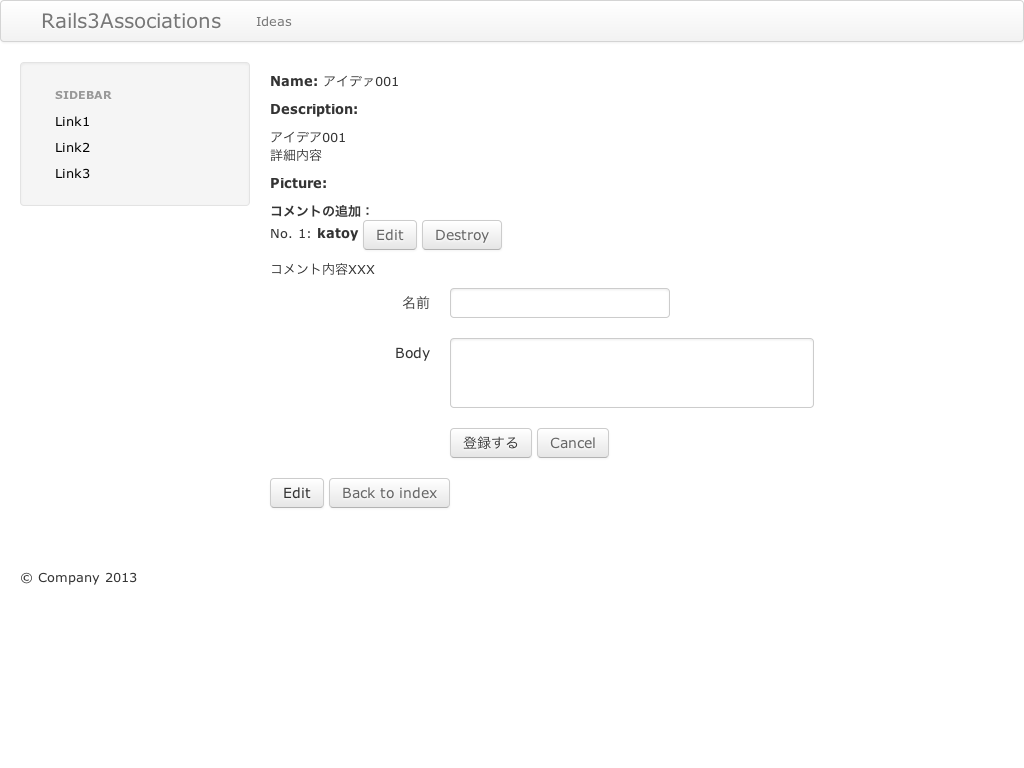
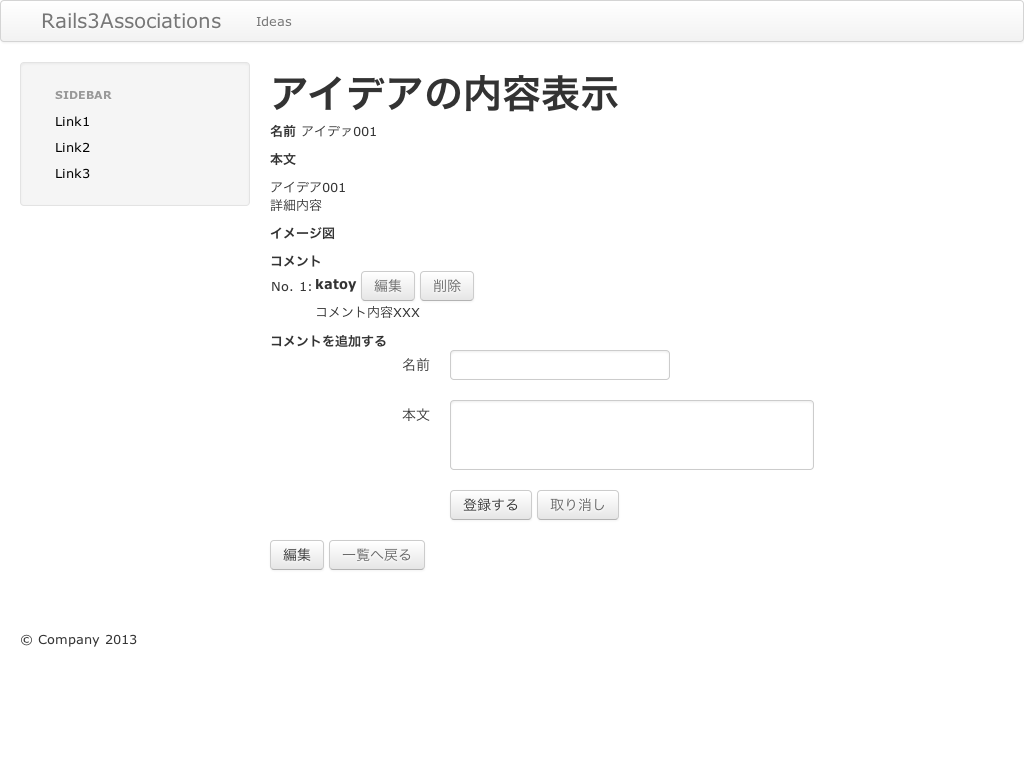
Use bootbox for confirm-dialog.

diff --git a/app/assets/javascripts/bootbox.min.js b/app/assets/javascripts/bootbox.min.js
@@ -1,0 +1,6 @@
+/**
+ * bootbox.js v3.3.0
+ *
+ * http://bootboxjs.com/license.txt
+ */
+var bootbox=window.bootbox||function(a,b){function c(a,b){return"undefined"==typeof b&&(b=d),"string"==typeof m[b][a]?m[b][a]:b!=e?c(a,e):a}var d="en",e="en",f=!0,g="static",h="javascript:;",i="",j={},k={},l={};l.setLocale=function(a){for(var b in m)if(b==a)return d=a,void 0;throw new Error("Invalid locale: "+a)},l.addLocale=function(a,b){"undefined"==typeof m[a]&&(m[a]={});for(var c in b)m[a][c]=b[c]},l.setIcons=function(a){k=a,("object"!=typeof k||null===k)&&(k={})},l.setBtnClasses=function(a){j=a,("object"!=typeof j||null===j)&&(j={})},l.alert=function(){var a="",b=c("OK"),d=null;switch(arguments.length){case 1:a=arguments[0];break;case 2:a=arguments[0],"function"==typeof arguments[1]?d=arguments[1]:b=arguments[1];break;case 3:a=arguments[0],b=arguments[1],d=arguments[2];break;default:throw new Error("Incorrect number of arguments: expected 1-3")}return l.dialog(a,{label:b,icon:k.OK,"class":j.OK,callback:d},{onEscape:d||!0})},l.confirm=function(){var a="",b=c("CANCEL"),d=c("CONFIRM"),e=null;switch(arguments.length){case 1:a=arguments[0];break;case 2:a=arguments[0],"function"==typeof arguments[1]?e=arguments[1]:b=arguments[1];break;case 3:a=arguments[0],b=arguments[1],"function"==typeof arguments[2]?e=arguments[2]:d=arguments[2];break;case 4:a=arguments[0],b=arguments[1],d=arguments[2],e=arguments[3];break;default:throw new Error("Incorrect number of arguments: expected 1-4")}var f=function(){return"function"==typeof e?e(!1):void 0},g=function(){return"function"==typeof e?e(!0):void 0};return l.dialog(a,[{label:b,icon:k.CANCEL,"class":j.CANCEL,callback:f},{label:d,icon:k.CONFIRM,"class":j.CONFIRM,callback:g}],{onEscape:f})},l.prompt=function(){var a="",d=c("CANCEL"),e=c("CONFIRM"),f=null,g="";switch(arguments.length){case 1:a=arguments[0];break;case 2:a=arguments[0],"function"==typeof arguments[1]?f=arguments[1]:d=arguments[1];break;case 3:a=arguments[0],d=arguments[1],"function"==typeof arguments[2]?f=arguments[2]:e=arguments[2];break;case 4:a=arguments[0],d=arguments[1],e=arguments[2],f=arguments[3];break;case 5:a=arguments[0],d=arguments[1],e=arguments[2],f=arguments[3],g=arguments[4];break;default:throw new Error("Incorrect number of arguments: expected 1-5")}var h=a,i=b("<form></form>");i.append("<input class='input-block-level' autocomplete=off type=text value='"+g+"' />");var m=function(){return"function"==typeof f?f(null):void 0},n=function(){return"function"==typeof f?f(i.find("input[type=text]").val()):void 0},o=l.dialog(i,[{label:d,icon:k.CANCEL,"class":j.CANCEL,callback:m},{label:e,icon:k.CONFIRM,"class":j.CONFIRM,callback:n}],{header:h,show:!1,onEscape:m});return o.on("shown",function(){i.find("input[type=text]").focus(),i.on("submit",function(a){a.preventDefault(),o.find(".btn-primary").click()})}),o.modal("show"),o},l.dialog=function(c,d,e){function j(){var a=null;"function"==typeof e.onEscape&&(a=e.onEscape()),a!==!1&&x.modal("hide")}var k="",l=[];e||(e={}),"undefined"==typeof d?d=[]:"undefined"==typeof d.length&&(d=[d]);for(var m=d.length;m--;){var n=null,o=null,p=null,q="",r=null;if("undefined"==typeof d[m].label&&"undefined"==typeof d[m]["class"]&&"undefined"==typeof d[m].callback){var s=0,t=null;for(var u in d[m])if(t=u,++s>1)break;1==s&&"function"==typeof d[m][u]&&(d[m].label=t,d[m].callback=d[m][u])}"function"==typeof d[m].callback&&(r=d[m].callback),d[m]["class"]?p=d[m]["class"]:m==d.length-1&&d.length<=2&&(p="btn-primary"),d[m].link!==!0&&(p="btn "+p),n=d[m].label?d[m].label:"Option "+(m+1),d[m].icon&&(q="<i class='"+d[m].icon+"'></i> "),o=d[m].href?d[m].href:h,k="<a data-handler='"+m+"' class='"+p+"' href='"+o+"'>"+q+n+"</a>"+k,l[m]=r}var v=["<div class='bootbox modal' tabindex='-1' style='overflow:hidden;'>"];if(e.header){var w="";("undefined"==typeof e.headerCloseButton||e.headerCloseButton)&&(w="<a href='"+h+"' class='close'>&times;</a>"),v.push("<div class='modal-header'>"+w+"<h3>"+e.header+"</h3></div>")}v.push("<div class='modal-body'></div>"),k&&v.push("<div class='modal-footer'>"+k+"</div>"),v.push("</div>");var x=b(v.join("\n")),y="undefined"==typeof e.animate?f:e.animate;y&&x.addClass("fade");var z="undefined"==typeof e.classes?i:e.classes;return z&&x.addClass(z),x.find(".modal-body").html(c),x.on("keyup.dismiss.modal",function(a){27===a.which&&e.onEscape&&j("escape")}),x.on("click","a.close",function(a){a.preventDefault(),j("close")}),x.on("shown",function(){x.find("a.btn-primary:first").focus()}),x.on("hidden",function(a){a.target===this&&x.remove()}),x.on("click",".modal-footer a",function(a){var c=b(this).data("handler"),e=l[c],f=null;("undefined"==typeof c||"undefined"==typeof d[c].href)&&(a.preventDefault(),"function"==typeof e&&(f=e(a)),f!==!1&&x.modal("hide"))}),b("body").append(x),x.modal({backdrop:"undefined"==typeof e.backdrop?g:e.backdrop,keyboard:!1,show:!1}),x.on("show",function(){b(a).off("focusin.modal")}),("undefined"==typeof e.show||e.show===!0)&&x.modal("show"),x},l.modal=function(){var a,c,d,e={onEscape:null,keyboard:!0,backdrop:g};switch(arguments.length){case 1:a=arguments[0];break;case 2:a=arguments[0],"object"==typeof arguments[1]?d=arguments[1]:c=arguments[1];break;case 3:a=arguments[0],c=arguments[1],d=arguments[2];break;default:throw new Error("Incorrect number of arguments: expected 1-3")}return e.header=c,d="object"==typeof d?b.extend(e,d):e,l.dialog(a,[],d)},l.hideAll=function(){b(".bootbox").modal("hide")},l.animate=function(a){f=a},l.backdrop=function(a){g=a},l.classes=function(a){i=a};var m={br:{OK:"OK",CANCEL:"Cancelar",CONFIRM:"Sim"},da:{OK:"OK",CANCEL:"Annuller",CONFIRM:"Accepter"},de:{OK:"OK",CANCEL:"Abbrechen",CONFIRM:"Akzeptieren"},en:{OK:"OK",CANCEL:"Cancel",CONFIRM:"OK"},es:{OK:"OK",CANCEL:"Cancelar",CONFIRM:"Aceptar"},fr:{OK:"OK",CANCEL:"Annuler",CONFIRM:"D'accord"},it:{OK:"OK",CANCEL:"Annulla",CONFIRM:"Conferma"},nl:{OK:"OK",CANCEL:"Annuleren",CONFIRM:"Accepteren"},pl:{OK:"OK",CANCEL:"Anuluj",CONFIRM:"Potwierdź"},ru:{OK:"OK",CANCEL:"Отмена",CONFIRM:"Применить"},zh_CN:{OK:"OK",CANCEL:"取消",CONFIRM:"确认"},zh_TW:{OK:"OK",CANCEL:"取消",CONFIRM:"確認"}};return l}(document,window.jQuery);window.bootbox=bootbox;

diff --git a/spec/acceptances/routes_spec.rb b/spec/acceptances/routes_spec.rb
@@ -2,7 +2,7 @@
 
 require 'spec_helper'
 
-feature "routes" do
+feature "routes", :js => true do
   before do
     Capybara.current_driver = :poltergeist
   end
@@ -20,7 +20,7 @@ feature "routes" do
     # ルート画面
     sno = my_screenshot(sno, "root")
     
-    click_on 'New Idea'
+    click_on '新規登録'
     current_path.should == "/ideas/new"
     # アイデア登録フォーム
     sno = my_screenshot(sno, "index_form")
@@ -31,7 +31,7 @@ feature "routes" do
     sno = my_screenshot(sno, "index_form_error")
     
     fill_in "名前",        with: :"アイデァ001" 
-    fill_in "Description", with: :"アイデア001\n詳細\内容"
+    fill_in "本文",        with: :"アイデア001\n詳細\内容"
     sno = my_screenshot(sno, "index_form_fill_data")
 
     click_on '登録する'
@@ -40,7 +40,7 @@ feature "routes" do
     sno = my_screenshot(sno, "index_new_ok")
 
     fill_in "名前", with: :"katoy" 
-    fill_in "Body", with: :"コメント内容"
+    fill_in "本文", with: :"コメント内容"
     sno = my_screenshot(sno, "comment_form_filled")
 
     click_on '登録する'
@@ -48,12 +48,12 @@ feature "routes" do
     # コメント登録 フォーム
     sno = my_screenshot(sno, "comment_new_ok")
 
-    click_on 'Edit'
+    click_on '編集'
     current_path.should == "/comments/1/edit"
     # コメント編集 フォーム
     sno = my_screenshot(sno, "comment_form_edit")
 
-    fill_in "Body", with: :"コメント内容XXX"
+    fill_in "本文", with: :"コメント内容XXX"
     sno = my_screenshot(sno, "comment_form_edit_filled")
 
     click_on '更新する'
@@ -61,7 +61,7 @@ feature "routes" do
     # コメント内容表示
     sno = my_screenshot(sno, "comment_edit_ok")
 
-    click_on 'Back to index'
+    click_on '一覧へ戻る'
     current_path.should == "/comments"
     # コメント内容表示
     sno = my_screenshot(sno, "comments")
@@ -71,27 +71,29 @@ feature "routes" do
     # コメント内容表示
     sno = my_screenshot(sno, "ideas")
 
-    click_on 'Show'
+    click_on '表示'
     current_path.should == "/ideas/1"
     # コメント内容表示
     sno = my_screenshot(sno, "idea_show_1")
 
-    click_on 'Back to index'
+    click_on '一覧へ戻る'
     current_path.should == "/ideas"
     # アイデア一覧
     sno = my_screenshot(sno, "ideas")
 
-    click_on 'Edit'
+    click_on '編集'
     current_path.should == "/ideas/1/edit"
     # アイデア内容表示
     sno = my_screenshot(sno, "idea_form_edit_1")
 
-    click_on 'Back to index'
+    click_on '一覧へ戻る'
     current_path.should == "/ideas"
     # アイデア内容表示
     sno = my_screenshot(sno, "ideas")
 
-    click_on 'Destroy'
+    click_on '削除'
+    alert = page.driver.browser.switch_to.alert
+
     current_path.should == "/ideas"
     # アイデア削除確認
     sno = my_screenshot(sno, "idea_delete_1")
